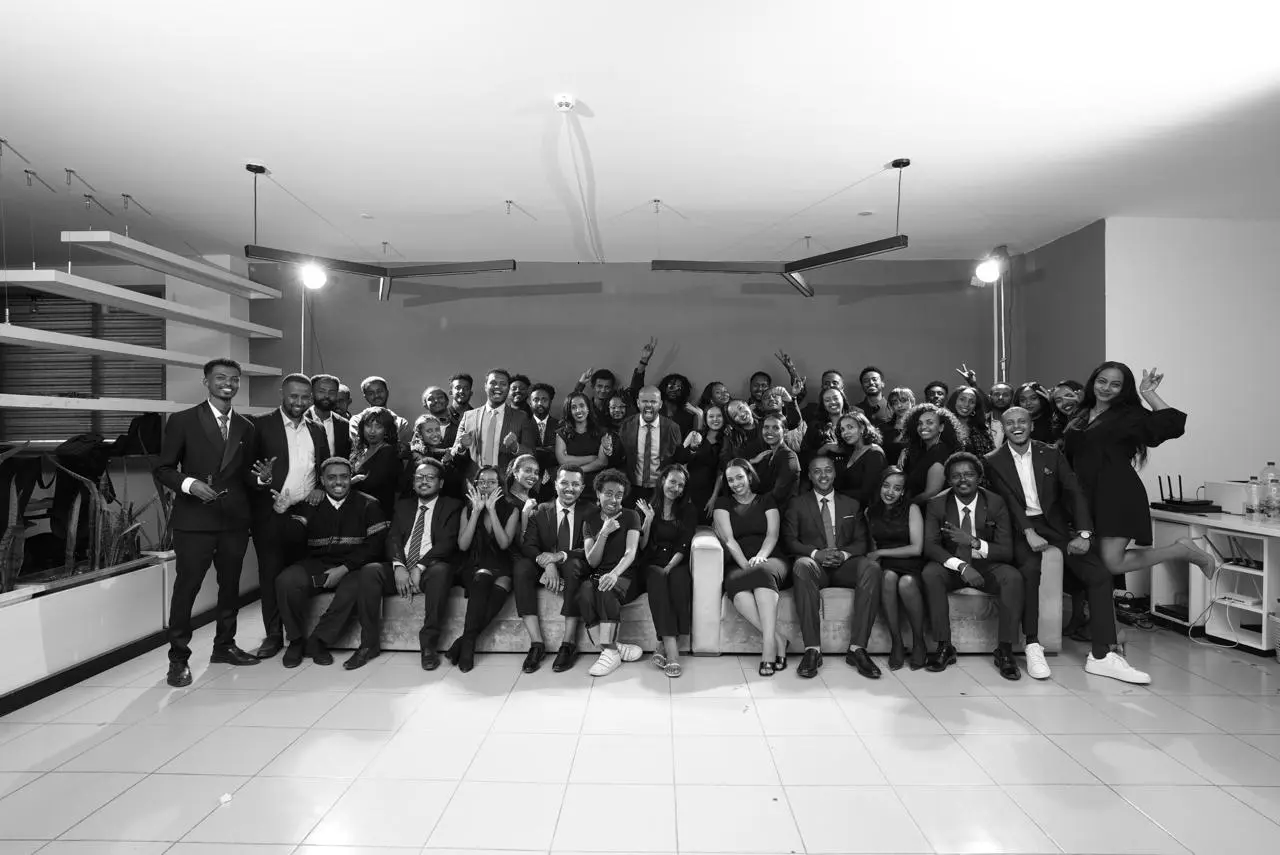
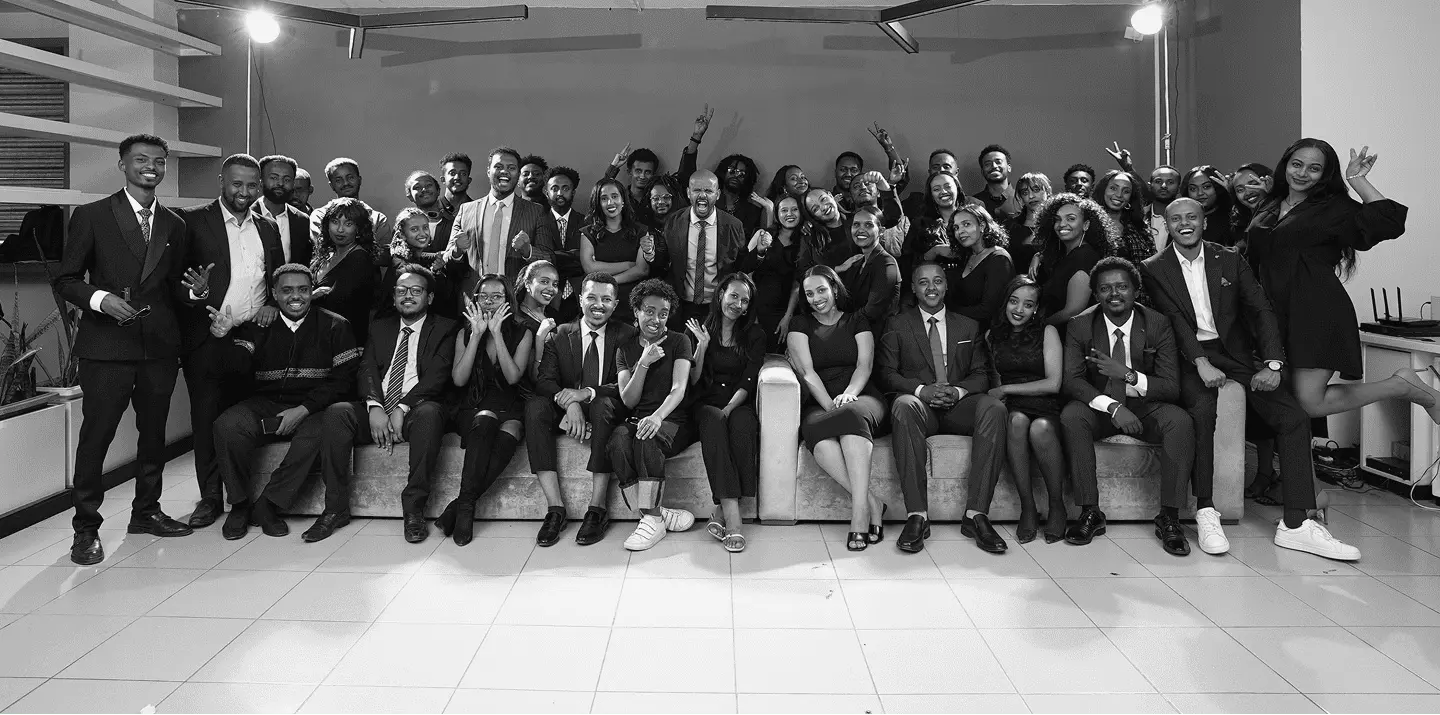
change tumbniel

diff --git a/components/sections/Hero.tsx b/components/sections/Hero.tsx
@@ -1,4 +1,6 @@
+"use client"
 import { getVideoUrl } from "@/sanity/lib/videoUrl";
+import { useEffect, useState } from "react";
 
 interface HeroProps {
   videoAsset?: any;
@@ -28,6 +30,14 @@ function getYouTubeEmbedUrl(videoId: string): string {
 export default function Hero({ videoAsset, title, subtitle }: HeroProps) {
   // const videoUrl = videoAsset ? getVideoUrl(videoAsset) : null;
   const youtubeVideoId = "ZUL8AK9GzRA";
+    const [tumbnailLoaded, setTumbnailLoaded] = useState(false);
+   useEffect(() => {
+        const timer = setTimeout(() => {
+          setTumbnailLoaded(true);
+        }, 2000);
+        return () => clearTimeout(timer);
+      
+    }, [tumbnailLoaded]);
 
   return (
     <section className="relative w-full h-screen -mt-20 md:-mt-26 lg:-mt-26 overflow-hidden z-0 bg-(--spotlight-950)">
@@ -52,7 +62,7 @@ export default function Hero({ videoAsset, title, subtitle }: HeroProps) {
         />
       )} */}
 
-     <iframe
+    { tumbnailLoaded&& <iframe
     src={getYouTubeEmbedUrl(youtubeVideoId)}
     title="Hero background video"
     allow="autoplay; encrypted-media"
@@ -66,7 +76,7 @@ export default function Hero({ videoAsset, title, subtitle }: HeroProps) {
       -translate-x-1/2 -translate-y-1/2
     "
     style={{ border: "none" }}
-  />
+  />}
 
       {/* Centered content */}
       <div className="relative z-10 flex flex-col items-center justify-center h-full text-center px-4">
